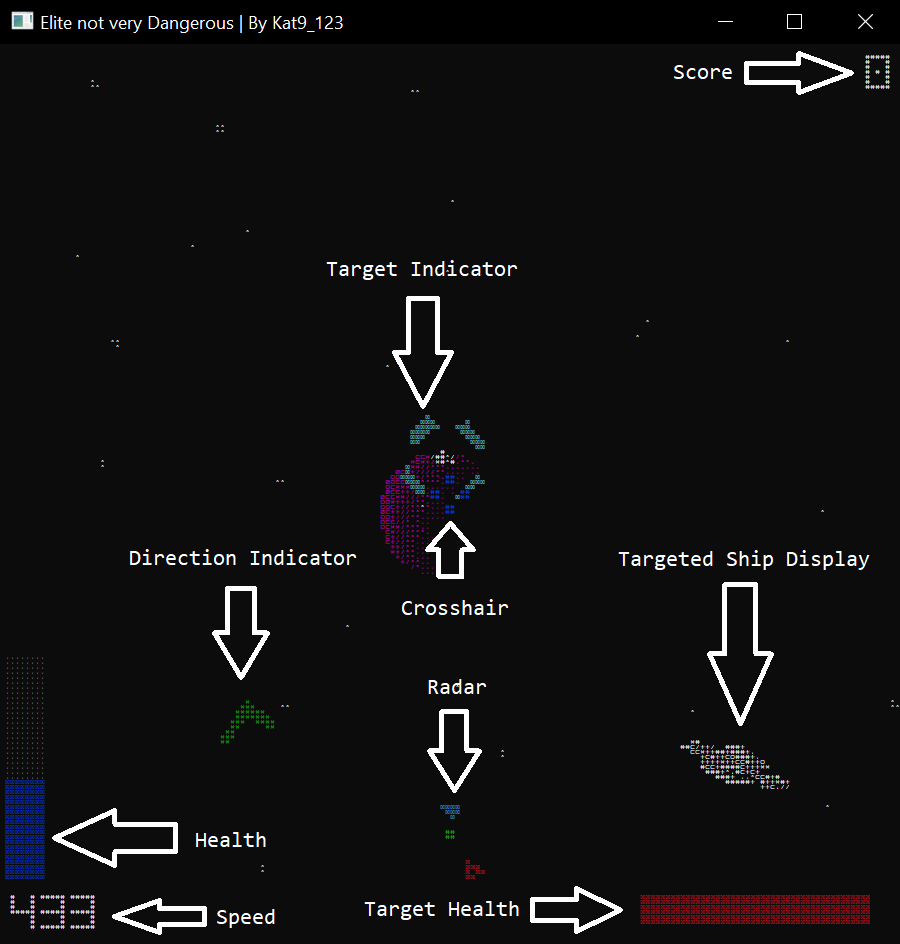
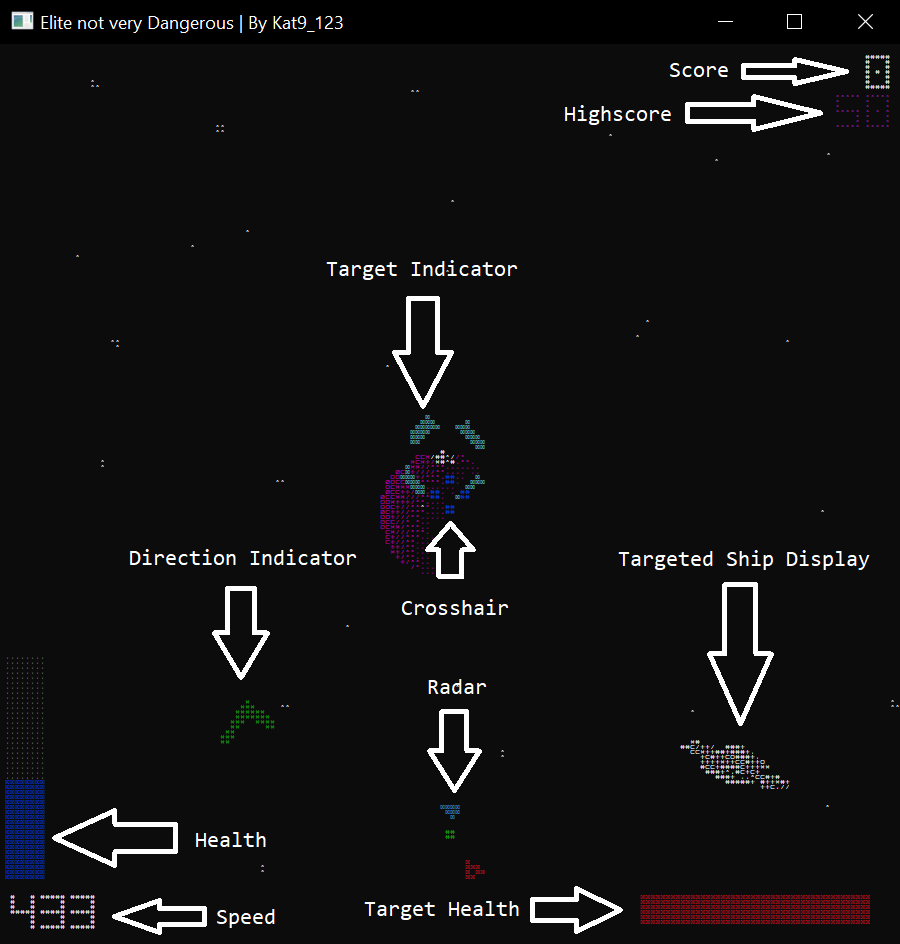
Highscore system and Readme

Changed region(s): [[0.6222, 0.0614, 0.9333, 0.1536]]

diff --git a/src/engine/Window.cs b/src/engine/Window.cs
@@ -153,19 +153,20 @@ namespace Elite
         public static void Initialise()
         {
             safeFileHandle = CreateFile("CONOUT$", 0x40000000, 2, IntPtr.Zero, FileMode.Open, 0, IntPtr.Zero);
+
             WindowHandlePtr = ThisProcess.MainWindowHandle;
             windowRect = new Rect();
             DisableQuickEdit();
+
             IntPtr handle = GetConsoleWindow();
             IntPtr sysMenu = GetSystemMenu(handle, false);
 
-            if (handle != IntPtr.Zero)
-            {
-                DeleteMenu(sysMenu, SC_CLOSE, MF_BYCOMMAND);
-                DeleteMenu(sysMenu, SC_MINIMIZE, MF_BYCOMMAND);
-                DeleteMenu(sysMenu, SC_MAXIMIZE, MF_BYCOMMAND);
-                DeleteMenu(sysMenu, SC_SIZE, MF_BYCOMMAND);//resize
-            }
+
+            DeleteMenu(sysMenu, SC_CLOSE, MF_BYCOMMAND);
+            DeleteMenu(sysMenu, SC_MINIMIZE, MF_BYCOMMAND);
+            DeleteMenu(sysMenu, SC_MAXIMIZE, MF_BYCOMMAND);
+            DeleteMenu(sysMenu, SC_SIZE, MF_BYCOMMAND);
+        
 
         }    
     
@@ -301,12 +302,17 @@ namespace Elite
             IntPtr result02 = SendMessage(mwHandle, 0x0080, 1, icon.Handle);
         }
 
+
+
+        //https://stackoverflow.com/questions/38426338/c-sharp-console-disable-resize
         private const int MF_BYCOMMAND = 0x00000000;
         public const int SC_CLOSE = 0xF060;
         public const int SC_MINIMIZE = 0xF020;
         public const int SC_MAXIMIZE = 0xF030;
-        public const int SC_SIZE = 0xF000;//resize
+        public const int SC_SIZE = 0xF000;
 
+
+        
         [DllImport("user32.dll")]
         public static extern int DeleteMenu(IntPtr hMenu, int nPosition, int wFlags);
 

diff --git a/src/game/src/GameManager.cs b/src/game/src/GameManager.cs
@@ -1,10 +1,13 @@
+
 namespace Elite
 {   
     // GameManager game manager. 
     public class GameManager : GameObject
     {
 
-
+        private const string SCORE_NAME = "score";
+        public string highscore;
+        public bool isSetup = false;
         public Player player;
 
         public UIManager uiManager;
@@ -87,13 +90,35 @@ namespace Elite
             Engine.cameraForward = new Vector3(0,0,1);
             Engine.cameraRight = new Vector3(1,0,0);
 
-
+            isSetup = true;
         }
 
         public override void Start()
         {
+            
             visible = false;
+
+            if(!FileHandler.FileExists(SCORE_NAME))
+            {
+                FileHandler.Write(SCORE_NAME,"0");
+            }
+
+            highscore = FileHandler.Read(SCORE_NAME);
+            
             Engine.Instance(new Titlescreen());
+
+        }
+
+        public void Exit()
+        {
+            if(!isSetup) return;
+
+
+            if(int.Parse(uiManager.score) >= int.Parse(highscore))
+            {
+                FileHandler.Write(SCORE_NAME,uiManager.score);
+            }
+        
 
         }
 

diff --git a/src/game/src/ui/UIManager.cs b/src/game/src/ui/UIManager.cs
@@ -10,6 +10,7 @@ namespace Elite
         public bool isWarping = false;
 
         public string score = "0";
+        
         public UIManager(Player _player)
         {
             player = _player;
@@ -110,9 +111,22 @@ namespace Elite
             DebugInfo();
 
             
+            short scoreColour = 15;
+            if(int.Parse(score) >= int.Parse(Engine.gameManager.highscore))
+            {
+                scoreColour = 5;
 
-            // Points
-            UI.WriteText(score,173-(6*(score.Length-1)),2);
+            }
+            else
+            {    
+                // Highscore
+                UI.WriteText(Engine.gameManager.highscore,173-(6*(Engine.gameManager.highscore.Length-1)),10,'^',5);
+
+            }
+                // Score
+                UI.WriteText(score,173-(6*(score.Length-1)),2,'#',scoreColour);
+
+
 
 
             // Player speed

diff --git a/src/engine/Engine.cs b/src/engine/Engine.cs
@@ -169,6 +169,12 @@ namespace Elite
  
         }
 
+        private static void Exit()
+        {
+            gameManager.Exit();
+            Environment.Exit(0);
+        }
+
         public static void Run()
         {
 
@@ -182,7 +188,7 @@ namespace Elite
                 InputManager.TestFocus();
 
                 // Exit if ESC was pressed
-                if(InputManager.IsKeyPressed(InputMap.PAUSE)) Environment.Exit(1);
+                if(InputManager.IsKeyPressed(InputMap.EXIT)) Exit();
 
                 if(InputManager.IsKeyPressed(InputMap.RESTART)) Restart();
 

diff --git a/src/engine/filehandlers/FileHandler.cs b/src/engine/filehandlers/FileHandler.cs
@@ -20,6 +20,11 @@ namespace Elite
             }
         }
 
+        public static bool FileExists(string path)
+        {
+            return File.Exists(originPath + path);
+        }
+
 
         public static string Read(string path)
         {

diff --git a/src/engine/input/InputMap.cs b/src/engine/input/InputMap.cs
@@ -28,7 +28,7 @@ namespace Elite
         TARGET_MOUSE = 0x04, // MIDDLE MOUSE BUTTON
 
 
-        PAUSE = 0x1B, // ESC
+        EXIT = 0x1B, // ESC
 
         RESTART = 0x52, //R
 

diff --git a/README.md b/README.md
@@ -104,7 +104,7 @@ or mouse settings before playing.
 - RightArrow - Yaw Right
 - UpArrow - Pitch Up
 - DownArrow - Pitch Down
-### Or
+#### Or
 - MouseMovementUp - Pitch Up
 - MouseMovementDown - Pitch Down
 - MouseMovementRight - Yaw Right
